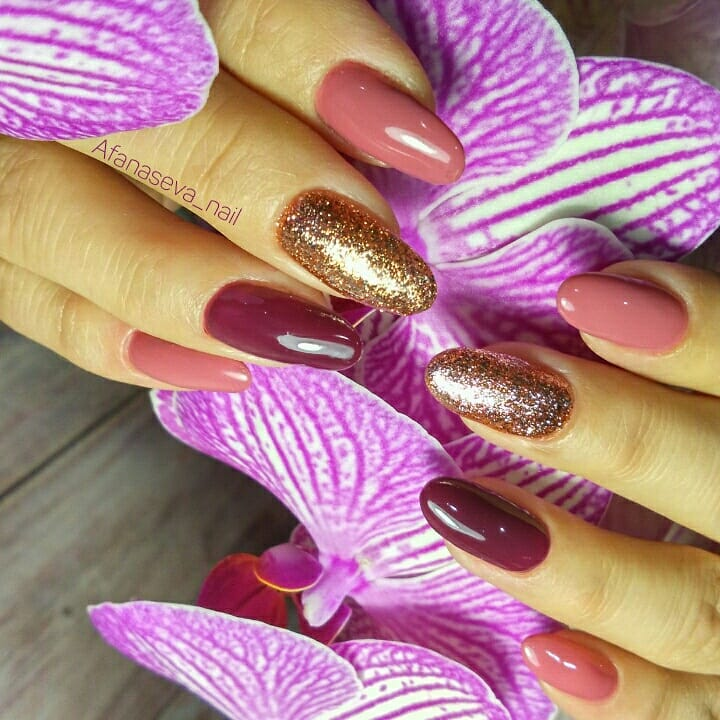
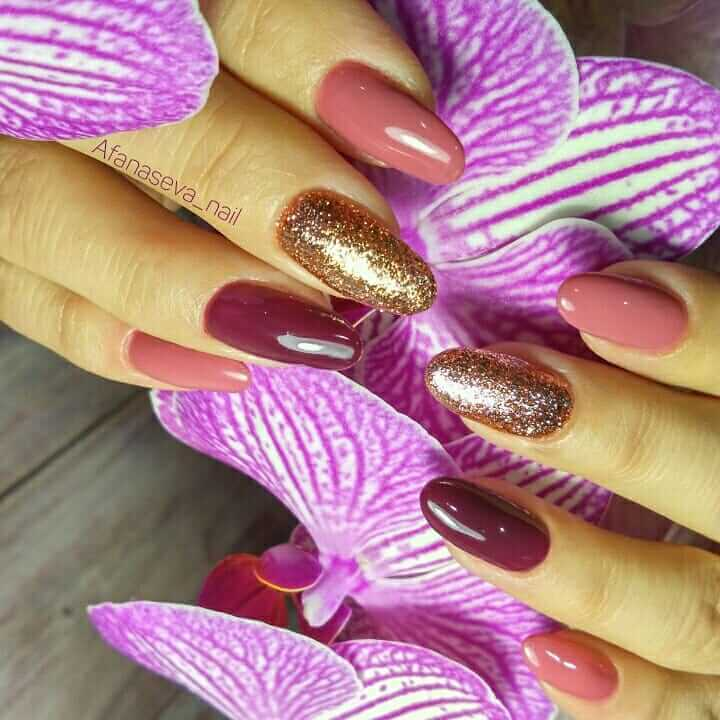
Photos optimized

diff --git a/Nails/Content/Site.css b/Nails/Content/Site.css
@@ -22,3 +22,12 @@ select,
 textarea {
     max-width: 280px;
 }
+
+.navbar-fixed-top {
+    top: 50px;
+}
+
+#OverNavbar {
+    top: 0;
+    position: fixed;
+}

diff --git a/Nails/Migrations/Configuration.cs b/Nails/Migrations/Configuration.cs
@@ -59,15 +59,13 @@ namespace Nails.Migrations
             context.Masters.AddOrUpdate(master);
 
             var certificationAuthority1 = new CertificationAhority() { Id = 1, Title = "Paris Nail", Url = "https://parisnail.ru/", Created = dt, Updated = dt };
-            var certificationAuthority2 = new CertificationAhority() { Id = 2, Title = "Kart Effective", Url = "https://academyexpert.ru/", Created = dt, Updated = dt };
 
             context.CertificationAhorities.AddOrUpdate(certificationAuthority1);
-            context.CertificationAhorities.AddOrUpdate(certificationAuthority2);
 
             var cert1 = new Certificate() { Id = 1, Authority = certificationAuthority1, Scan = "/Content/Certificates/cert1.jpg", Master = master, Created = dt, Updated = dt };
             var cert2 = new Certificate() { Id = 2, Authority = certificationAuthority1, Scan = "/Content/Certificates/cert2.jpg", Master = master, Created = dt, Updated = dt };
             var cert3 = new Certificate() { Id = 3, Authority = certificationAuthority1, Scan = "/Content/Certificates/cert3.jpg", Master = master, Created = dt, Updated = dt };
-            var cert4 = new Certificate() { Id = 4, Authority = certificationAuthority2, Scan = "/Content/Certificates/cert4.jpg", Master = master, Created = dt, Updated = dt };
+            var cert4 = new Certificate() { Id = 4, Authority = certificationAuthority1, Scan = "/Content/Certificates/cert4.jpg", Master = master, Created = dt, Updated = dt };
 
             context.Certificates.AddOrUpdate(cert1);
             context.Certificates.AddOrUpdate(cert2);
